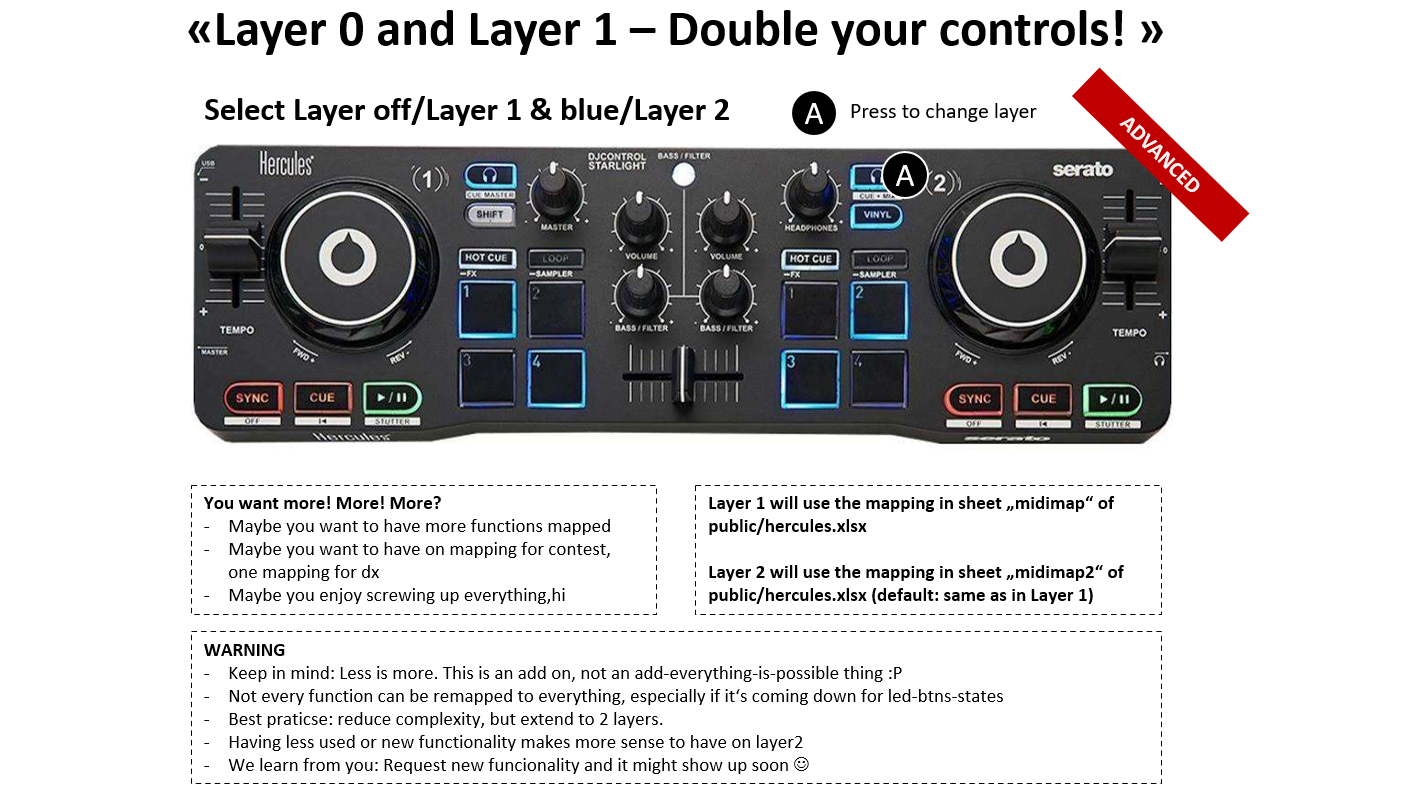
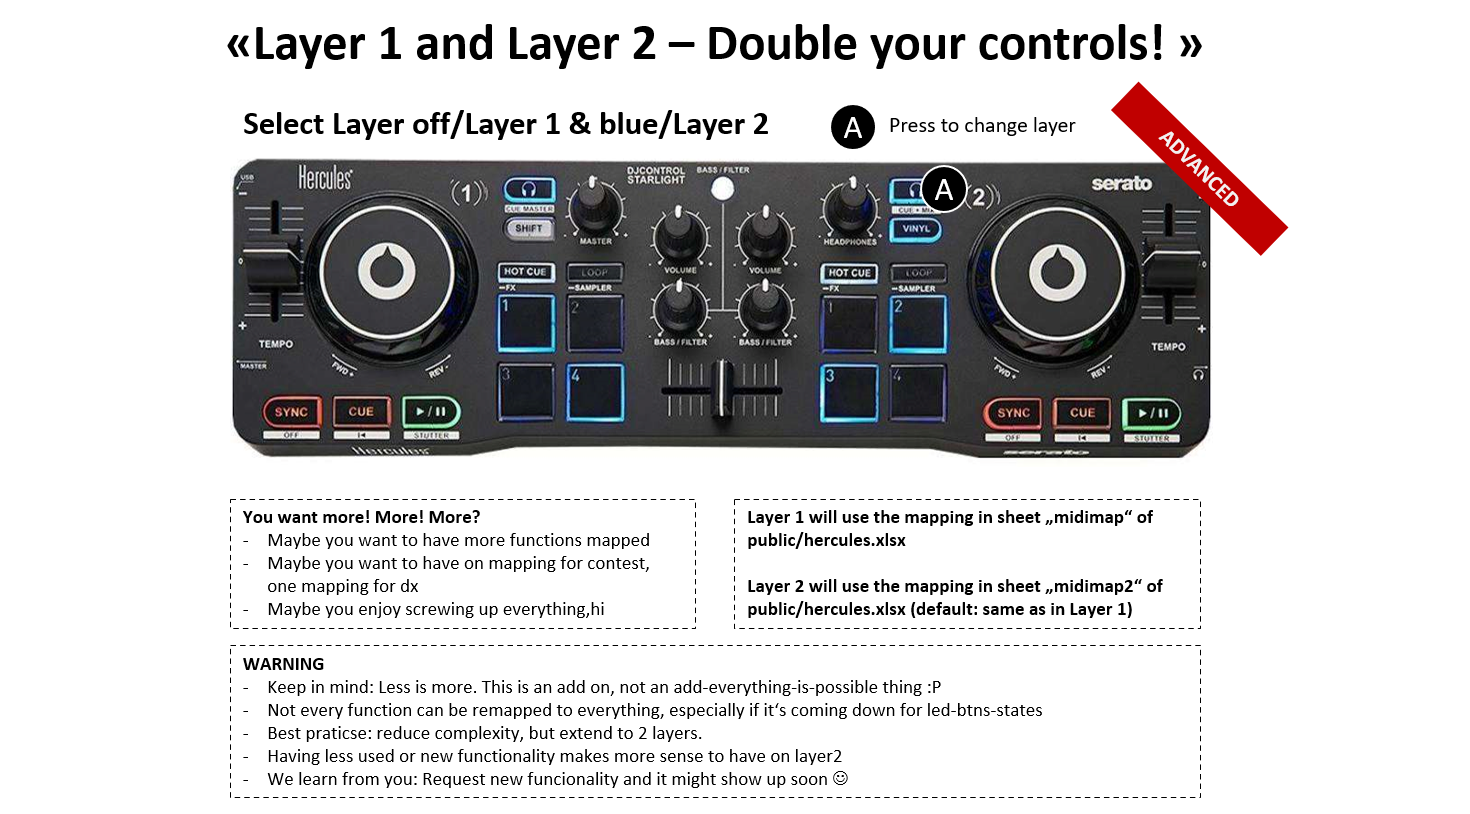
updated readme

Changed region(s): [[0.1236, 0.0, 0.8961, 0.5604], [0.1545, 0.5915, 0.7107, 0.9651], [0.4944, 0.5915, 0.8034, 0.7783]]

diff --git a/README.md b/README.md
@@ -9,11 +9,14 @@
 </p>
 
 <p>
-  Yes! Here is something for you! How about using an external DJ-Midi-Controller to control your FlexRadio? Thanks to FlexRadio and Stephen Houser this is already possible - but now its even easier!
+  Yes! Here is something for you! How about using an external DJ-Midi-Controller to control your FlexRadio? Thanks to FlexRadio and Stephen Houser this is already possible in Node-Red - but now its even easier!
 </p>
 <p>No more Node-Red-Setup needed, no Raspberry setup, no update hell, no need to become a linux expert - and no need to use an Ipad, OSX or whatever!</p> 
 <p>
   <b>And even better: Your friends all have flex radios and they let you play with them? EASY going! You can jump through all the different flex radios with your fingertips! Take a look at the entering configuration mode instructions down below!</b>
+</p>
+<p>
+xxFlexradioController DJ Console Hercules Starlight supports 3 Faders, 2 Turning-Wheel with 1 Touch-Btn in the middle, 6 Rotatry potis, 26 Buttons (using 2x Cue+4, 2x Loop+4), 4 globaly used buttons => THATS A TOTAL of 43 actors! Not enough? IN 2 LAYERS => 86 possible actors assignable! Jump to "ADVANCED" for more info.
 </p>
 <p>
 Just buy a Hercules DJ-Control Starlight USB, download the software here (using the BatchStarter.exe for Windows 10/11 to start it - hint: install donetframework first => complete package is in the <a href="https://www.hamradioland.de/rh.zip" target=_blank>DOWNLOAD package for WINDOWS 10/11</a> here!), install the controller, edit the public/config.json and choose your FlexRadios-IP and !!!!WOW!!!! ITS WORKING OUT OF THE BOX!!!!
